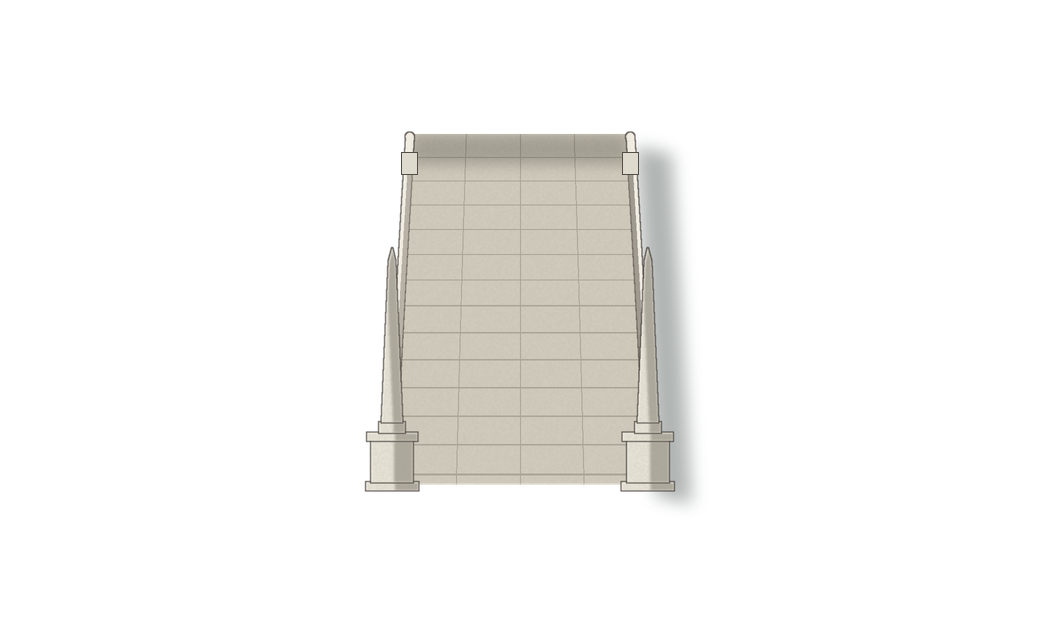
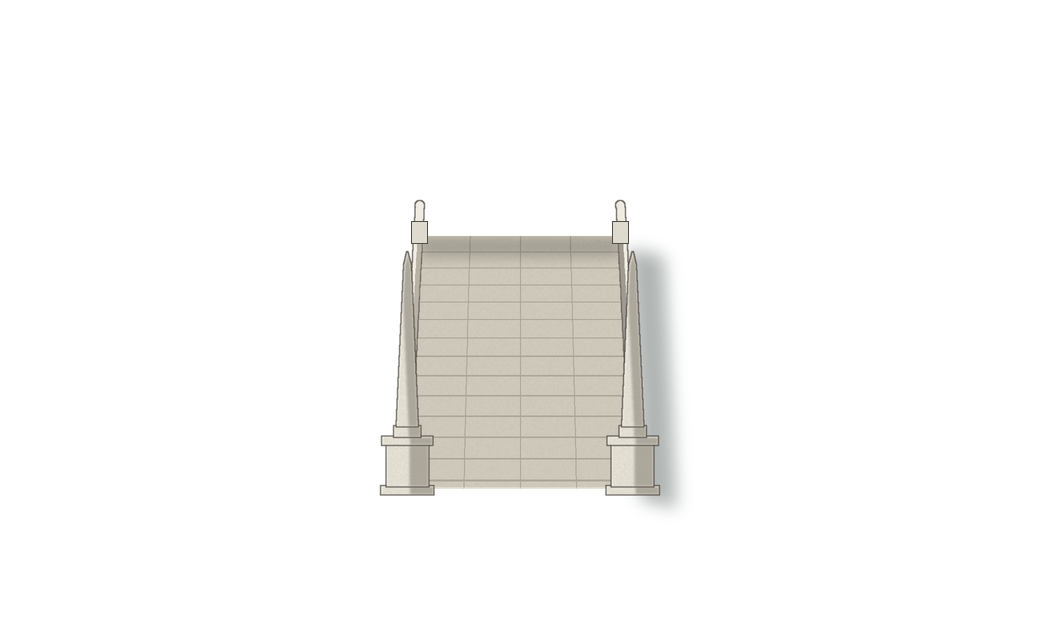
Padova: l'isola sembra ovale anche davanti, con il prato, il cordolo e il muro che girano; il ponte sud parte dal bordo dell'ovale (#378)
Claude-Session: https://claude.ai/code/session_01Bf1d2rFJnp9n4pFf7DSqn4

Changed region(s): [[0.3385, 0.1875, 0.6769, 0.8125]]

diff --git a/src/shared/stages.ts b/src/shared/stages.ts
@@ -548,8 +548,8 @@ export const STAGES: Record<string, StageSpec> = {
         // Due platani sulla piazza (#288), dietro alle statue: la chioma sta sopra le teste e lascia vedere il palco
         { file: "platano.png", x: 410, y: 522, scale: 0.5 },
         { file: "platano.png", x: 1510, y: 522, scale: 0.5, flip: true },
-        // il fianco dell'isola ovale (#378): il muro che gira verso le punte e lo zoccolo di mattoni che scende nel canale
-        { file: "fianco.png", x: 960, y: 700 },
+        // la metà vicina dell'isola ovale (#378): il prato davanti alla linea dove si gioca, il cordolo e il muro nel canale
+        { file: "fianco.png", x: 960, y: 660 },
         { file: "fontana.png", x: 960, y: 524 }, // la fontana dell'Isola Memmia: la vasca, i paracarri e la ringhiera
         { file: "fontana-davanti.png", x: 960, y: 530, front: true, opacity: 0.7 }, // il bordo della vasca davanti ai piedi
         // La sponda di qua del canale (#378), sfocata davanti a tutto: il canale resta una striscia stretta come quello vero

diff --git a/tools/arene/padova.py b/tools/arene/padova.py
@@ -181,86 +181,78 @@ def quay_wall():
     q.save(OUT, "riva.png")
 
 
+FRONT_D = 56  # quanto l'isola sporge davanti alla linea dove si gioca, al centro (#378): la metà vicina dell'ovale
+
+
+def front_edge_y(x):
+    """Il bordo davanti dell'isola ovale (#378, chiesto da Riccardo): al centro sta FRONT_D pixel più giù della linea
+    dove si gioca (y 520), e verso le punte risale fino a toccarla, come la metà vicina di un ovale visto dall'alto."""
+    d = (x - 960) / 862
+    return 520 + FRONT_D * math.sqrt(max(0.0, 1 - d * d))
+
+
 def fianco(name):
-    """Il fianco dell'isola ovale (#378, chiesto da Riccardo: la piattaforma deve sembrare ovale). Il bordo dove si
-    cammina resta dritto a y 520, ma il muro sotto è un cilindro visto un po' dall'alto: il piede segue una curva, alto
-    70 al centro e sempre più basso verso le punte, i blocchi si stringono dove il muro gira (la stessa pietra di
-    riva.png, piegata), e l'ombra cresce ai lati; alle punte il muro gira dietro. Sotto, lo zoccolo di mattoni con gli
-    archi che scende nell'acqua del canale. Il gioco ci disegna sopra solo la copertina (bordo.png).
-    Prop dietro in x 960, y 700, a 2x: x 60..1860, y 516..700."""
+    """La metà vicina dell'isola ovale (#378, chiesto da Riccardo: i giocatori combattono su una linea, ma l'isola deve
+    sembrare ovale anche davanti). Davanti alla linea dove si gioca (y 520, la copertina la disegna il gioco) l'isola
+    continua: una fascia di prato rasato a strisce, vista dall'alto, che si allarga al centro e si chiude verso le punte;
+    sul bordo dell'ovale il cordolo bianco con i paracarri bassi; poi il muro a bugne che gira (i blocchi si stringono
+    dove il muro curva e vanno in ombra verso le punte) e scende nell'acqua del canale, scuro d'umido e con le alghe.
+    Prop dietro in x 960, y 660, a 2x: x 60..1860, y 516..660."""
     import numpy as np
-    x0, y0, w, h = 60, 516, 1800, 184
+    x0, y0, w, h = 60, 516, 1800, 144
     k = 2
     W, H = w * k, h * k
-    cx, rx = 960, 880
-    tile = np.asarray(Image.open(os.path.join(OUT, "riva.png")).convert("RGBA")).astype(np.float32)
-    th, tw = tile.shape[0], tile.shape[1]  # 140×480: 70×240 di mondo
+    cx, rx = 960, 862
     xs = x0 + (np.arange(W) + 0.5) / k
     d = np.clip((xs - cx) / rx, -1, 1)
     sfac = np.sqrt(1 - d * d)
-    wall_bot = 520 + 56 + 14 * sfac ** 0.6  # il muro resta alto anche verso le punte: l'isola sta sull'acqua (#378)
-    arc = rx * np.arcsin(d)  # la distanza lungo il muro: i blocchi si stringono verso le punte
-    out = np.zeros((H, W, 4), np.float32)
+    top = 520 + FRONT_D * sfac  # il bordo davanti, dove comincia il muro
+    bottom = 660.0
+    tile = np.asarray(Image.open(os.path.join(OUT, "riva.png")).convert("RGBA")).astype(np.float32)
+    th, tw = tile.shape[0], tile.shape[1]
+    arc = rx * np.arcsin(d)
     ys = y0 + (np.arange(H) + 0.5) / k
-    Y, _ = np.meshgrid(ys, np.arange(W), indexing="ij")
-    inside = (Y >= 520) & (Y <= wall_bot[None, :]) & (np.abs(xs - cx)[None, :] <= 860)
-    v = (Y - 520) / np.maximum(1e-3, (wall_bot[None, :] - 520)) * (th - 1)
+    Y = ys[:, None]
+    inside = (Y >= top[None, :]) & (Y <= bottom) & (np.abs(xs - cx)[None, :] <= rx)
+    v = np.mod((Y - top[None, :]) * k + 18, th)  # i blocchi a bugne, dalla cornice in giù
     u = np.mod((arc[None, :] - arc.min()) * k, tw)
     vi = np.clip(v.astype(int), 0, th - 1)
     ui = np.clip(np.broadcast_to(u, vi.shape).astype(int), 0, tw - 1)
     sample = tile[vi, ui]
-    shadeK = (0.55 + 0.45 * sfac ** 0.5)[None, :, None]  # il muro gira: verso le punte va in ombra
-    sample[..., :3] *= shadeK
+    shade_k = (0.5 + 0.5 * sfac ** 0.6)[None, :, None]  # il muro gira: verso le punte va in ombra
+    damp = np.clip((Y - 600) / 30, 0, 1)[..., None] * 0.45  # l'umido scuro che sale dall'acqua
+    sample[..., :3] = sample[..., :3] * shade_k * (1 - damp) + np.array([40, 52, 40]) * damp
+    out = np.zeros((H, W, 4), np.float32)
     out[inside] = sample[inside]
-    img = Image.fromarray(np.clip(out, 0, 255).astype(np.uint8), "RGBA")
+    wall = Image.fromarray(np.clip(out, 0, 255).astype(np.uint8), "RGBA")
+    # la fascia di prato davanti, vista dall'alto, e il cordolo sul bordo dell'ovale
     t = Tela(w, h, origin=(x0, y0), ss=1)
-    # lo zoccolo di mattoni sotto il muro, che segue la stessa curva e scende nell'acqua
-    brick, brick_s, mortar = (122, 84, 68, 255), (100, 68, 56, 255), (80, 60, 52, 255)
-    xs_w = [100 + i * 1720 / 120 for i in range(121)]
-
-    def bot(x, amp):
-        dd = max(-1.0, min(1.0, (x - cx) / rx))
-        return 520 + amp * (0.8 + 0.2 * (1 - dd * dd) ** 0.3)
-
-    top_pts = [(x, bot(x, 70)) for x in xs_w]
-    base_pts = [(x, bot(x, 150)) for x in xs_w]
-    plinth = top_pts + list(reversed(base_pts))
-    bricks = Tela(w, h, origin=(x0, y0), ss=1, bg=brick)
-    for row in range(40):
-        y = 520 + row * 5
-        bricks.line([(x0, y), (x0 + w, y)], fill=mortar, width=0.5)
-        off = 0 if row % 2 else 5
-        for x in range(x0 + off, x0 + w, 10):
-            bricks.line([(x, y), (x, y + 5)], fill=mortar, width=0.4)
-    t.paste_inside(bricks, plinth)
-    for ax in (380, 700, 1220, 1540):  # gli archi di scarico, a filo dell'acqua
-        aw, top = 120, bot(ax, 70) + 8
-        t.pieslice(ax - aw / 2, top, ax + aw / 2, top + aw * 0.55, 180, 360, fill=brick_s)
-        t.rect(ax - aw / 2, top + aw * 0.27, ax + aw / 2, bot(ax, 150), fill=brick_s)
-        for kk in range(11):
-            a0, a1 = math.pi * kk / 11, math.pi * (kk + 1) / 11
-            rr, r2, cyy = aw / 2, aw / 2 + 8, top + aw * 0.275
-            pts = [(ax - rr * math.cos(a0), cyy - rr * 0.5 * math.sin(a0)), (ax - r2 * math.cos(a0), cyy - r2 * 0.5 * math.sin(a0)),
-                   (ax - r2 * math.cos(a1), cyy - r2 * 0.5 * math.sin(a1)), (ax - rr * math.cos(a1), cyy - rr * 0.5 * math.sin(a1))]
-            t.poly(pts, fill=(150, 142, 128, 255) if kk % 2 else (122, 116, 104, 255), ink=True, width=0.6)
-    t.glaze(plinth, (30, 26, 24, 60))  # lo zoccolo sta nell'ombra del muro
-    for x in range(110, 1820, 6):  # verso le punte anche lo zoccolo gira in ombra
-        dd = abs((x - cx) / rx)
-        if dd > 0.75:
-            t.glaze([(x, bot(x, 70)), (x + 6, bot(x + 6, 70)), (x + 6, bot(x + 6, 150)), (x, bot(x, 150))], (20, 18, 16, int(110 * (dd - 0.75) / 0.25)))
-    t.line(top_pts, fill=(60, 50, 44, 255), width=0.9)
-    t.line(base_pts, fill=(60, 50, 44, 255), width=0.9)
-    base_img = t.result()
-    base_img.alpha_composite(img)
-    # le punte: il muro che gira dietro, un quarto d'ovale in ombra tra il bordo e il piede
-    tt = Tela(w, h, origin=(x0, y0), ss=1)
-    for side in (-1, 1):
-        xe = cx + side * 860
-        cap = [(xe, 520), (xe + side * 16, 512), (xe + side * 20, 520 + 6), (xe + side * 12, bot(xe, 150) - 4), (xe, bot(xe, 150))]
-        tt.poly(cap, fill=(70, 66, 60, 255), ink=True, width=0.8, ink_col=(40, 36, 32, 255))
-    tt.img.alpha_composite(base_img)
-    tt.img.quantize(colors=256, method=Image.Quantize.FASTOCTREE, dither=Image.Dither.NONE).save(os.path.join(OUT, name), optimize=True)
-    print("scritto", name, tt.img.size)
+    pts = [(cx - rx + 2 * rx * i / 120, front_edge_y(cx - rx + 2 * rx * i / 120)) for i in range(121)]
+    lawn = [(cx - rx, 521)] + [(x, y) for x, y in pts] + [(cx + rx, 521)]
+    t.poly(lawn, fill=(86, 110, 64, 255))
+    for kk in range(-30, 30):  # le strisce del taglio dell'erba
+        xa = cx + kk * 46
+        t.glaze([(xa, 521), (xa + 23, 521), (xa + 23 - 18, 580), (xa - 18, 580)], (130, 156, 96, 40) if kk % 2 else (40, 60, 30, 26))
+    rng = rand(3791)
+    for kk in range(1800):
+        gx = rng.uniform(cx - rx, cx + rx)
+        gy = rng.uniform(523, front_edge_y(gx) - 2)
+        if gy > 523:
+            t.line([(gx, gy), (gx + rng.uniform(-0.6, 0.6), gy - rng.uniform(1.0, 2.4))], fill=rng.choice([(64, 84, 48, 255), (112, 138, 82, 255)]), width=0.5)
+    t.glaze([(cx - rx, 521), (cx + rx, 521), (cx + rx, 527), (cx - rx, 527)], (30, 28, 24, 60))  # l'ombra della copertina sul prato
+    base = t.img
+    base.alpha_composite(wall)
+    t.img = base
+    t.d = ImageDraw.Draw(t.img)
+    t.line([(x, y + 1.5) for x, y in pts], fill=(222, 216, 202, 255), width=3.4)  # il cordolo bianco
+    t.line([(x, y + 3.4) for x, y in pts], fill=(150, 144, 132, 255), width=0.8)
+    t.line([(x, y - 0.2) for x, y in pts], fill=(90, 84, 76, 255), width=0.6)
+    for i in range(1, 16):  # i paracarri bassi lungo il cordolo, più piccoli verso le punte
+        x = cx - rx + 2 * rx * i / 16
+        y = front_edge_y(x)
+        sc = 0.5 + 0.5 * math.sqrt(max(0.0, 1 - ((x - cx) / rx) ** 2))
+        bollard(t, x, y + 1, 16 * sc, stone=(214, 208, 194, 255), sh=(170, 164, 150, 255))
+    t.save(OUT, name, colors=256)
 
 
 def coping(name, w=96, h=10):
@@ -2500,7 +2492,7 @@ def front_bridges(name):
     q = Quadro(w, h, origin=(x0, y0))
     S, S_SH, S_HI = (228, 224, 212), (174, 168, 156), (246, 244, 236)
     ink = (78, 72, 66)
-    yf, yn, half_f = 527, 702, 54
+    yf, yn, half_f = 520 + FRONT_D + 2, 704, 50  # dal bordo davanti dell'isola ovale (#378)
     n = 40
     us = [i / n for i in range(n + 1)]
 
@@ -2529,7 +2521,7 @@ def front_bridges(name):
     q.fill(q.intersect(q.soften(q.poly(q.mask(), [L[0], R[0], R[4], L[4]]), 3), deck), (40, 38, 34), 0.25)  # sotto il bordo della piazza
     # i due parapetti traforati a cerchi intrecciati, visti da dentro: cominciano poco dopo la piazza, così non coprono
     # i piedi di chi combatte; quello a destra è in ombra; gli obelischi alti sul capo di qua
-    start = 5
+    start = 1
     _openwork(q, L[start:], 18, ink, face=S, shadow=(170, 164, 152), through=(92, 120, 112), seed=92)
     _openwork(q, R[start:], 18, ink, face=S_SH, shadow=(140, 134, 124), through=(80, 108, 100), seed=93)
     for x, y in (L[-1], R[-1]):
